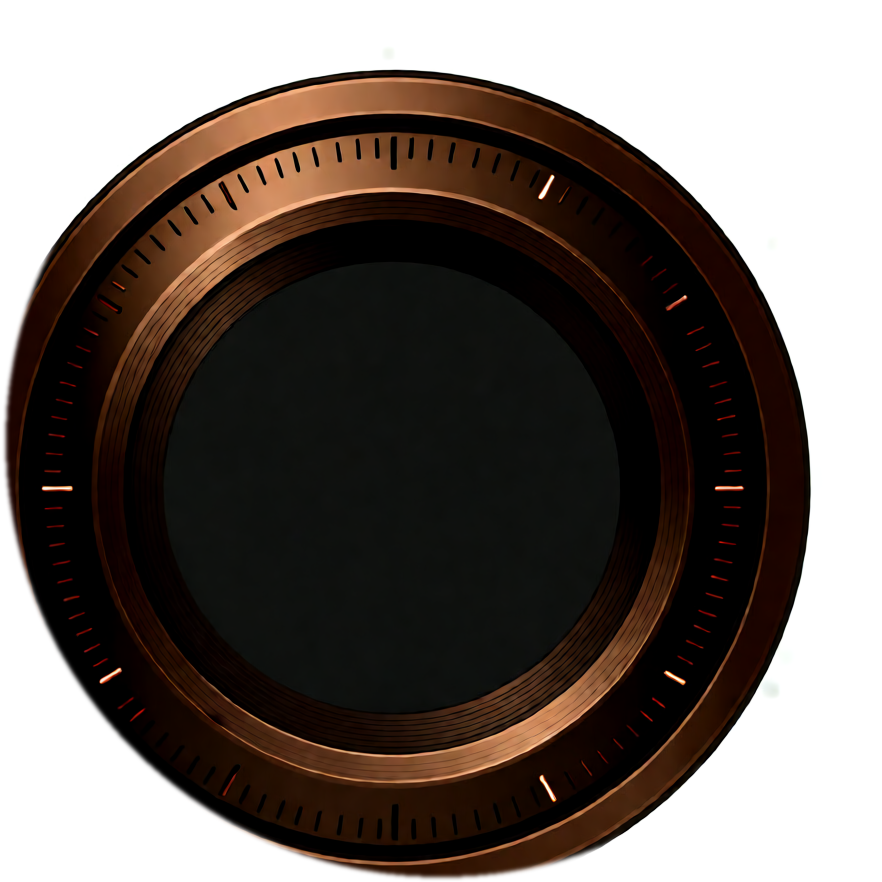
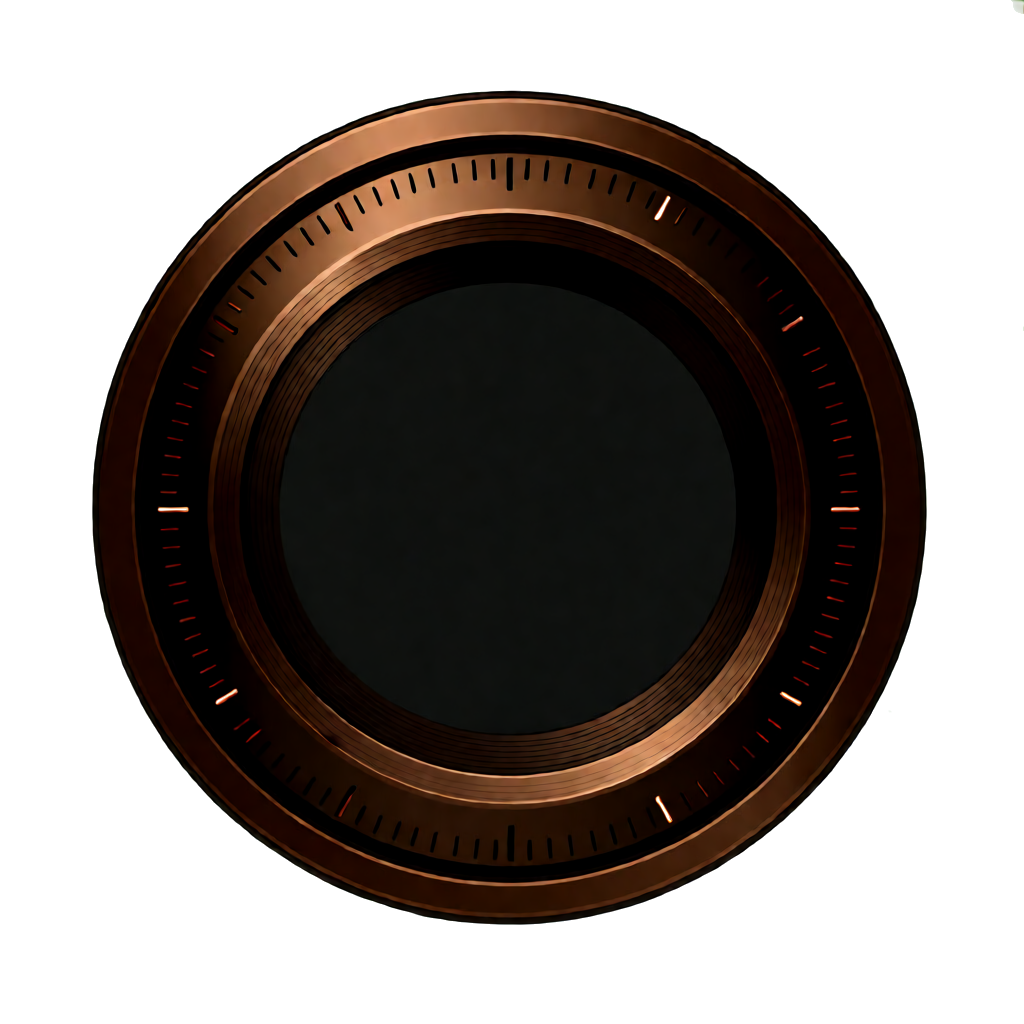
蓄力仪表盘填充色改三段离散变色（白/绿/红）

diff --git a/Assets/Scripts/Marble/MarbleShooter.cs b/Assets/Scripts/Marble/MarbleShooter.cs
@@ -55,7 +55,6 @@ namespace Dapaolou.Marble
         [Header("蓄力仪表盘")]
         [SerializeField] private GameObject powerGauge;             // 蓄力扇形仪表盘（油门盘）
         [SerializeField] private Image powerGaugeFill;              // 蓄力填充扇形
-        [SerializeField] private RectTransform needleTransform;     // 指针（随力度旋转）
 
         // 内部状态
         private ShootState currentState = ShootState.Idle;
@@ -677,14 +676,13 @@ namespace Dapaolou.Marble
             if (powerGaugeFill != null)
             {
                 powerGaugeFill.fillAmount = currentPower;
-                powerGaugeFill.color = powerGradient.Evaluate(currentPower);
-            }
-
-            // 指针旋转：底部(-90°) 顺时针扫 270°
-            if (needleTransform != null)
-            {
-                float angle = -90f + 270f * currentPower;
-                needleTransform.localRotation = Quaternion.Euler(0f, 0f, angle);
+                // 三段变色：白（轻）→ 绿（中）→ 红（重）
+                if (currentPower < 1f / 3f)
+                    powerGaugeFill.color = Color.white;
+                else if (currentPower < 2f / 3f)
+                    powerGaugeFill.color = Color.green;
+                else
+                    powerGaugeFill.color = Color.red;
             }
         }
         

diff --git a/CODELY.md b/CODELY.md
@@ -13,7 +13,8 @@
 ### Project
 - [2026-09-03 12:04:47] Unity 技术陷阱：本项目场景中的组件（如 Player2 的 AIPlayerController）带序列化字段，修改代码里的字段默认值对已存在场景实例不生效（如 thinkDelay、powerRange 都踩过此坑）。**How to apply:** 改 [SerializeField] 字段默认值后，必须用 exec_editor_script 通过 SerializedObject 更新场景实例的值再保存，不能只改代码。
 - [2026-09-03 13:29:09] Unity Play 验证陷阱：exec_runtime_script 结束后 Play 会话会继续运行（不自动退出），连续验证会互相污染状态（弹珠被消耗、排行榜旧值、回合漂移）。**How to apply:** 需要全新会话的验证前先 unity_editor stop 再跑脚本；或在脚本开头检查状态是否延续（如库存/可用弹珠数）并主动重开。
-- [2026-09-03 17:13:10] 本地混元3D部署状态（未完成，暂停中）：部署在 D:\AI-3D\Hunyuan3D\Hunyuan3D-2（官方仓库，含 api_server.py，POST /send + GET /status/{uid}，默认端口 8081，返回 GLB base64）。用 E:\AI-3D\miniconda3\envs\triposr 的 python 启动（HF_HOME=E:\AI-3D\cache\huggingface，tencent/Hunyuan3D-2 权重已缓存）。**已修复依赖**：onnxruntime/trimesh/omegaconf；**仍缺**：diffusers/transformers/gradio 等（安装进行到一半被中止）。批量生成脚本已写好：Tools/gen_models.py（10个基础模型清单：房子/院墙/树/水缸/狗窝/栅栏/妈妈/牛/狗/猫，输出 Assets/Models/AIGen/）。**继续方式**：补装 diffusers transformers opencv-python tqdm accelerate gradio pymeshlab pygltflib xatlas 后启动 api_server.py --port 8081 --enable_tex，然后跑 gen_models.py。
+- [2026-09-03 18:00:17] 本地混元3D部署状态（未完成，暂停中）：部署在 D:\AI-3D\Hunyuan3D\Hunyuan3D-2（官方仓库，含 api_server.py，POST /send + GET /status/{uid}，默认端口 8081，返回 GLB base64）。用 E:\AI-3D\miniconda3\envs\triposr 的 python 启动（HF_HOME=E:\AI-3D\cache\huggingface，tencent/Hunyuan3D-2 权重已缓存）。**已修复依赖**：onnxruntime/trimesh/omegaconf；**仍缺**：diffusers/transformers/gradio 等（安装进行到一半被中止）。批量生成脚本已写好：Tools/gen_models.py（10个基础模型清单：房子/院墙/树/水缸/狗窝/栅栏/妈妈/牛/狗/猫，输出 Assets/Models/AIGen/）。**继续方式**：补装 diffusers transformers opencv-python tqdm accelerate gradio pymeshlab pygltflib xatlas 后启动 api_server.py --port 8081 --enable_tex，然后跑 gen_models.py。另：本地 ComfyUI 生图管线（Qwen-Image 4步，Tools/gen_gauge.py 为模板）已实测可用，油门盘贴图即此管线产出（Tools/process_gauge.py 做圆形抠图）。
+
 
 ### Reference
 - [2026-09-03 03:44:36] Dapaolou(打炮楼) 3D物理弹珠对战游戏 — 完整开发手册在项目根目录「打炮楼游戏开发手册.md」，含玩法规则、时间系统(6:00-20:00)、NPC行为时间表(妈妈/牛/狗臭豆/猫骚咪/弟弟)、手抖/力度/地形系统详解与Unity设置指南；修改游戏系统前先查手册。
